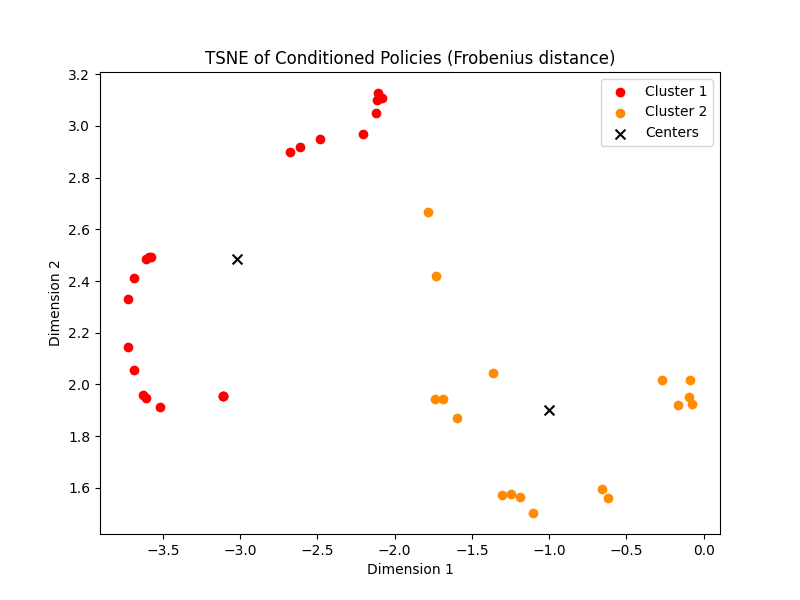
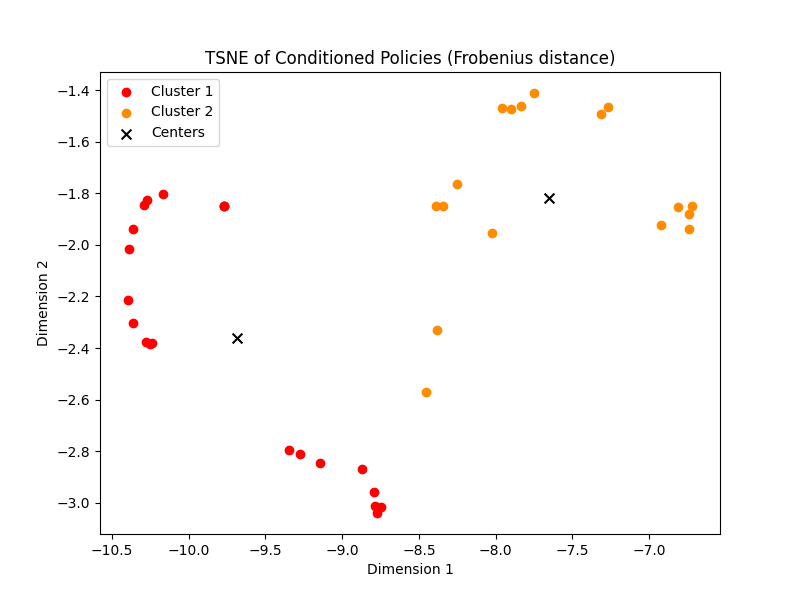
make the background of trajectory plotting be the actual dst map

diff --git a/trace/spaces_connection.py b/trace/spaces_connection.py
@@ -44,12 +44,15 @@ def main():
     if show: sankey_fig.show()
 
     c_obs, c_ac = aggregate_policies(ac_seq, obs_seq, labels[0])
-    for i in range(len(c_obs)):
-        policy = BayesianPolicy(env_id, alpha=0.5).fit(c_obs[i], c_ac[i])
-        grid_trajectories(c_obs[i], (12,12))
-        fig = grid_arrows(policy, title=f'Behavior Cluster {i+1}: {len(c_obs[i])} episodes', color=colors[0][i])
-        if save: fig.savefig(f"plots/frobenius_conditioned/grid{i}.png")
-        if show: fig.show()
+    for c in range(len(c_obs)):
+        policy = BayesianPolicy(env_id, alpha=0.5).fit(c_obs[c], c_ac[c])
+        title = f'Behavior Cluster {c + 1}: {len(c_obs[c])} episodes'
+        color = colors[0][c]
+        figs = [grid_trajectories(c_obs[c], title=title, color=color),
+                grid_arrows(policy, title=title, color=color)]
+        for i, fig in enumerate(figs):
+            if save: fig.savefig(f"plots/frobenius_conditioned/grid-cluster{c}-{i}.png")
+            if show: fig.show()
 
     un_obs, un_ac = aggregate_policies(ac_seq, obs_seq, [0]*len(ac_seq))
     universal_policy = BayesianPolicy(env_id, alpha=0.5).fit(un_obs[0], un_ac[0])

diff --git a/trace/visuals/__init__.py b/trace/visuals/__init__.py
@@ -1,4 +1,4 @@
 from trace.visuals.scatters import sankey, cluster_scatter, colors
 from trace.visuals.tsne import tsne_transform
 from trace.visuals.pareto import visualize_pareto
-from trace.visuals.policies import grid_arrows, grid_trajectories
+from trace.visuals.dst_grid import grid_arrows, grid_trajectories